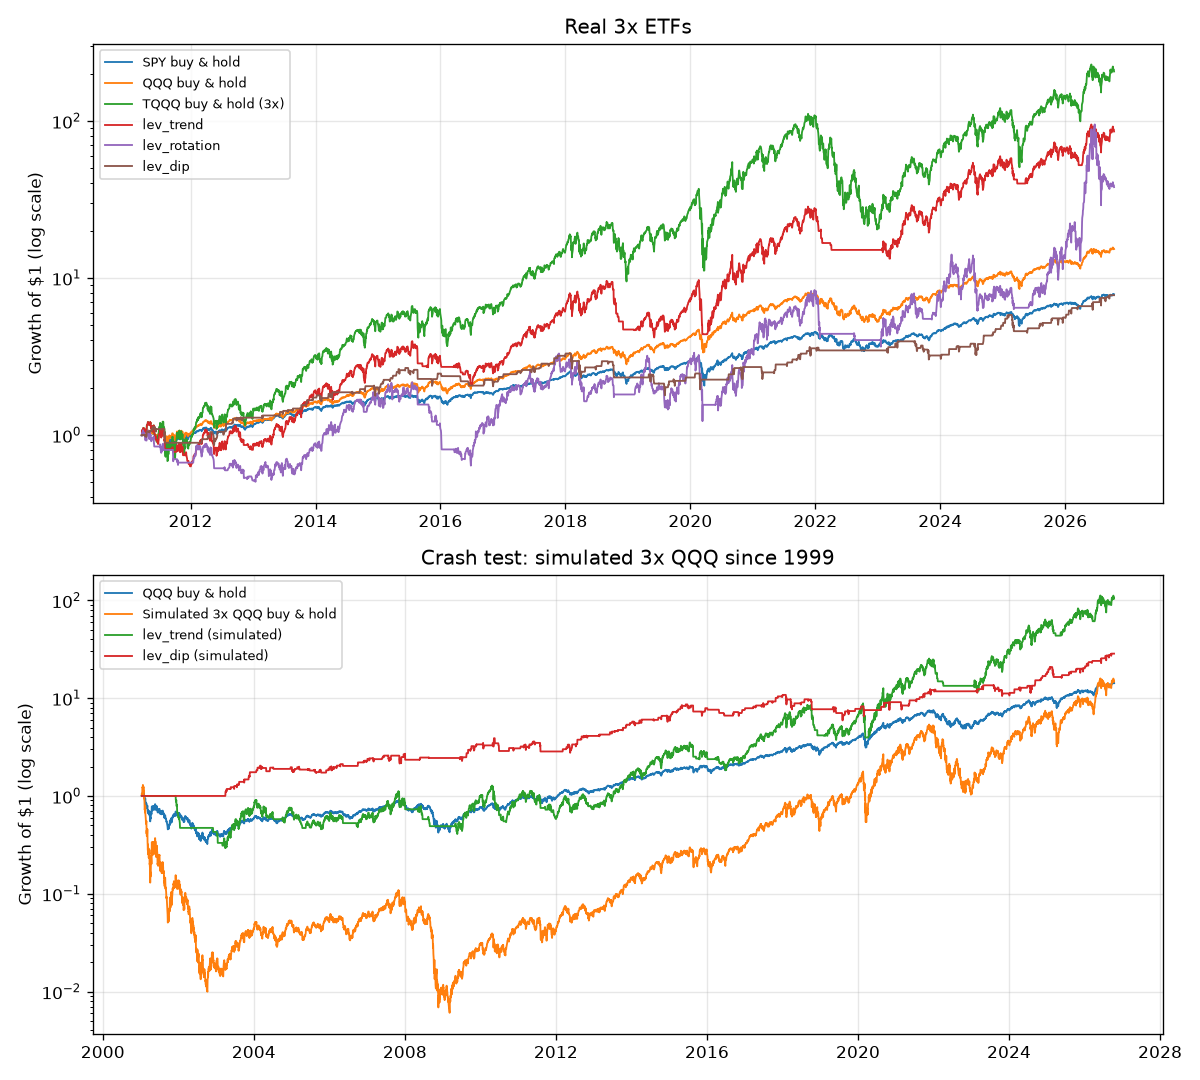
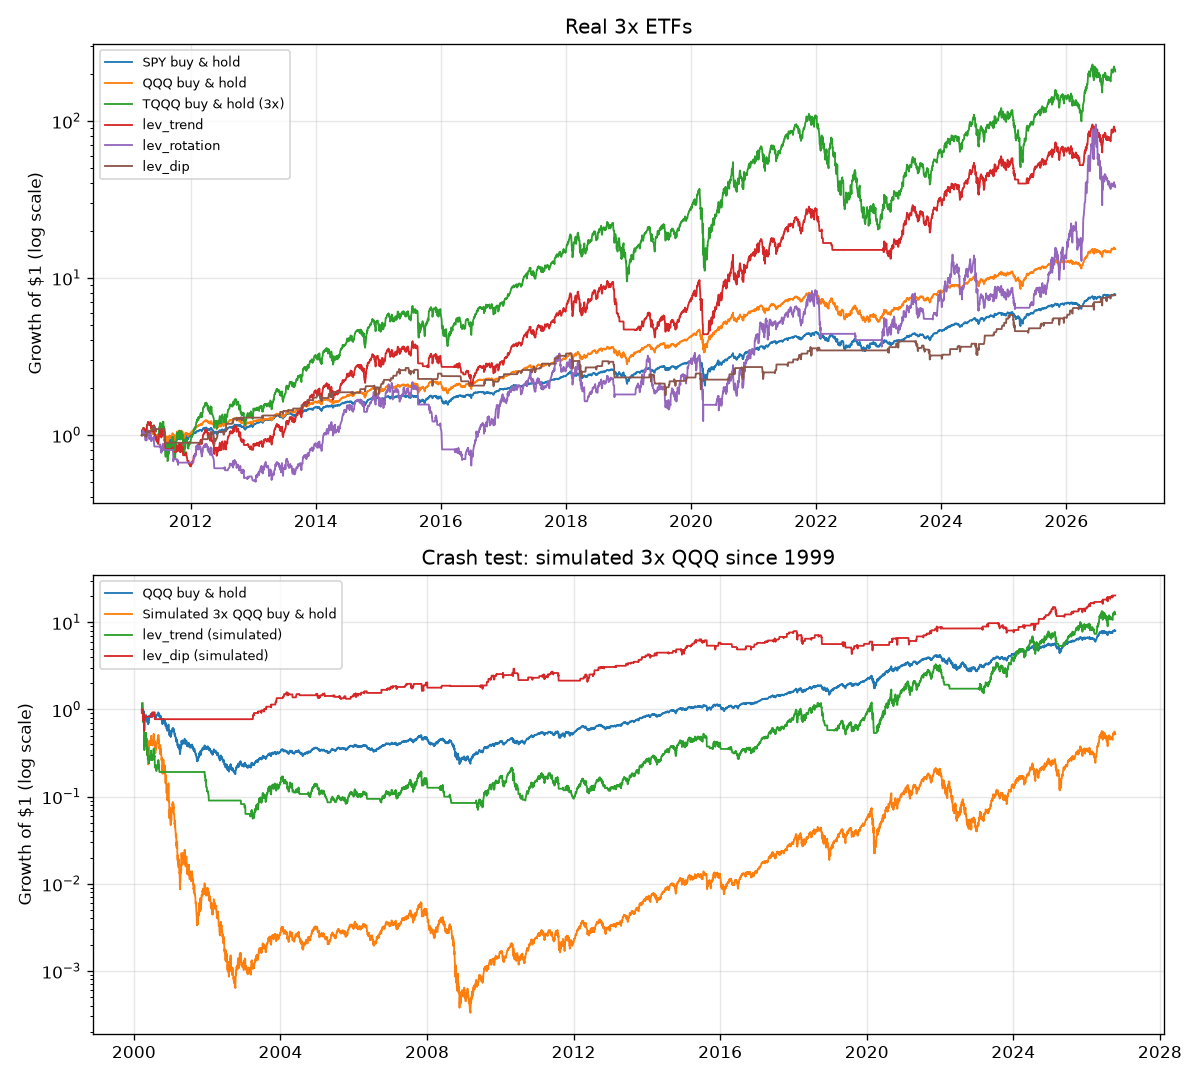
Lab backtest report 2026-10-13

diff --git a/reports/lab-2026-10-13.md b/reports/lab-2026-10-13.md
@@ -10,8 +10,8 @@ where the account reached 10x at some point; "Fell to $50" is the share where it
 |---|---|---|---|---|---|---|---|
 | SPY buy & hold | 686% | 14.2% | 0.87 | -33.7% | 0% | 0% | - |
 | QQQ buy & hold | 1,428% | 19.2% | 0.95 | -35.1% | 0% | 0% | - |
-| TQQQ buy & hold (3x) | 20,551% | 40.9% | 0.87 | -81.7% | 24% | 16% | - |
-| lev_trend | 8,467% | 33.2% | 0.85 | -56.2% | 6% | 3% | 87 |
+| TQQQ buy & hold (3x) | 20,555% | 40.9% | 0.87 | -81.7% | 24% | 16% | - |
+| lev_trend | 8,469% | 33.2% | 0.85 | -56.2% | 6% | 3% | 87 |
 | lev_rotation | 3,688% | 26.4% | 0.69 | -70.5% | 4% | 21% | 186 |
 | lev_dip | 677% | 14.1% | 0.67 | -45.8% | 0% | 0% | 270 |
 
@@ -28,19 +28,19 @@ In-sample before 2019-01-01, out-of-sample after:
 | lev_trend | in-sample | 22.0% | 0.69 | -50.9% |
 | lev_trend | out-of-sample | 45.4% | 0.99 | -54.9% |
 | lev_rotation | in-sample | 7.9% | 0.40 | -70.5% |
-| lev_rotation | out-of-sample | 47.9% | 0.90 | -69.4% |
+| lev_rotation | out-of-sample | 48.0% | 0.90 | -69.4% |
 | lev_dip | in-sample | 11.5% | 0.60 | -29.6% |
 | lev_dip | out-of-sample | 16.8% | 0.75 | -26.6% |
 
-## 2. Crash test with simulated 3x QQQ (2001-01-12 to 2026-10-13)
+## 2. Crash test with simulated 3x QQQ (2000-03-20 to 2026-10-13)
 
-Covers the 2000–2002 dot-com crash and 2008. The simulated fund uses QQQ's daily moves x3 minus 2.5%/yr for fees and borrowing. Where both exist, real TQQQ returned 41.2%/yr and the simulation 44.7%/yr.
+Covers the 2000–2002 dot-com crash and 2008. The simulated fund uses QQQ's daily moves x3 minus 5.0%/yr for fees and borrowing. Where both exist, real TQQQ returned 41.2%/yr and the simulation 41.2%/yr.
 
 | Strategy | Total | CAGR | Sharpe | Max drawdown | $100→$1,000 in 5y | Fell to $50 | Trades |
 |---|---|---|---|---|---|---|---|
-| QQQ buy & hold | 1,324% | 10.9% | 0.55 | -70.4% | 0% | 4% | - |
-| Simulated 3x QQQ buy & hold | 1,379% | 11.1% | 0.51 | -99.5% | 19% | 40% | - |
-| lev_trend (simulated) | 10,316% | 19.8% | 0.63 | -70.9% | 5% | 8% | 175 |
-| lev_dip (simulated) | 2,753% | 13.9% | 0.69 | -45.2% | 0% | 0% | 398 |
+| QQQ buy & hold | 696% | 8.1% | 0.43 | -83.0% | 0% | 8% | - |
+| Simulated 3x QQQ buy & hold | -48% | -2.4% | 0.37 | -100.0% | 12% | 43% | - |
+| lev_trend (simulated) | 1,137% | 9.9% | 0.44 | -95.3% | 3% | 12% | 187 |
+| lev_dip (simulated) | 1,929% | 12.0% | 0.58 | -45.5% | 0% | 0% | 410 |
 
 ![equity curves](lab-2026-10-13.png)
